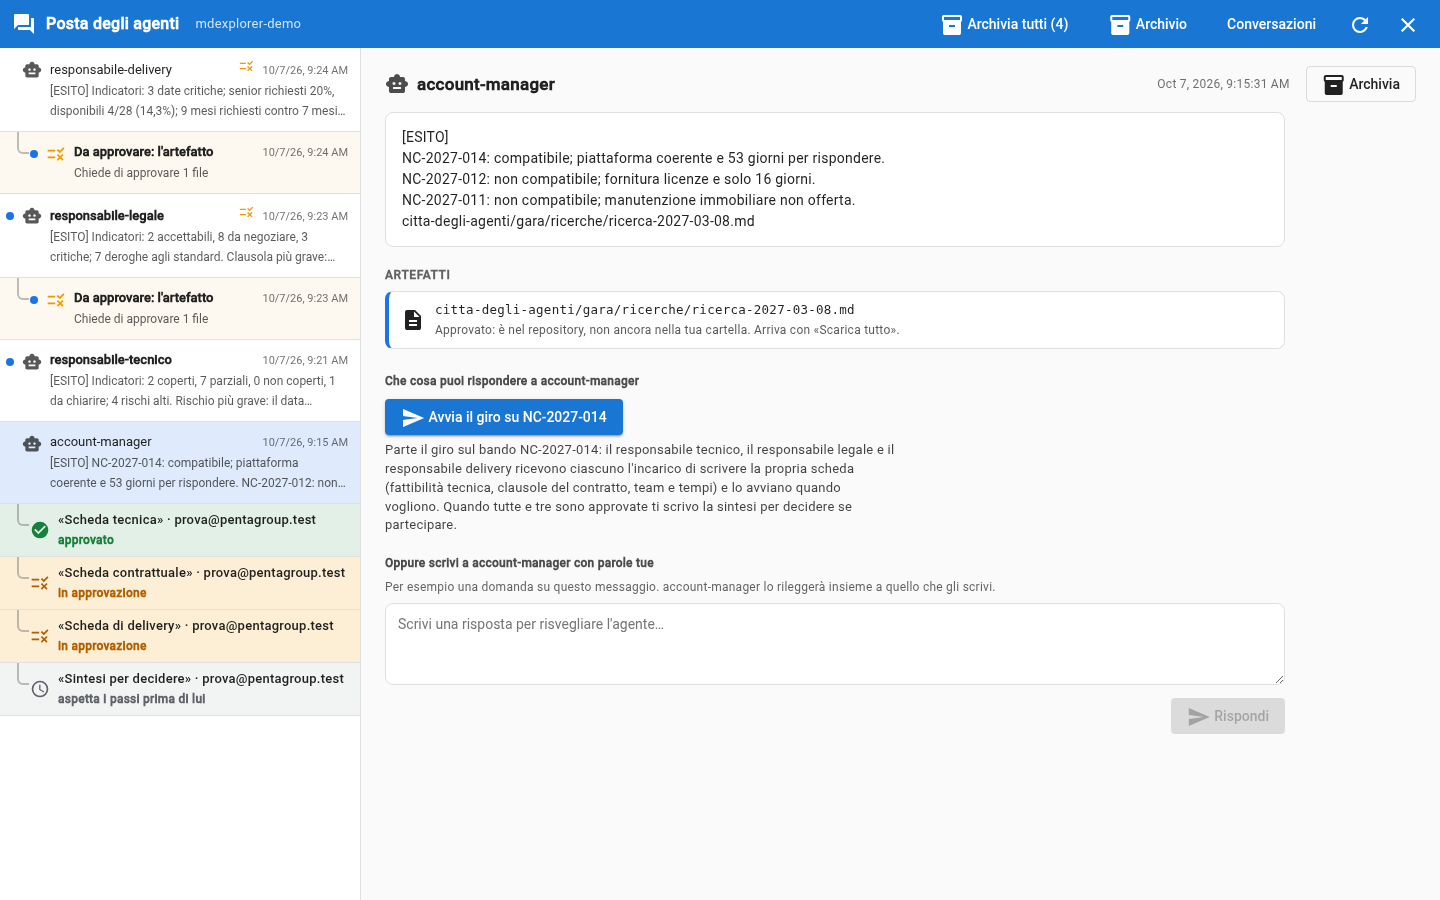
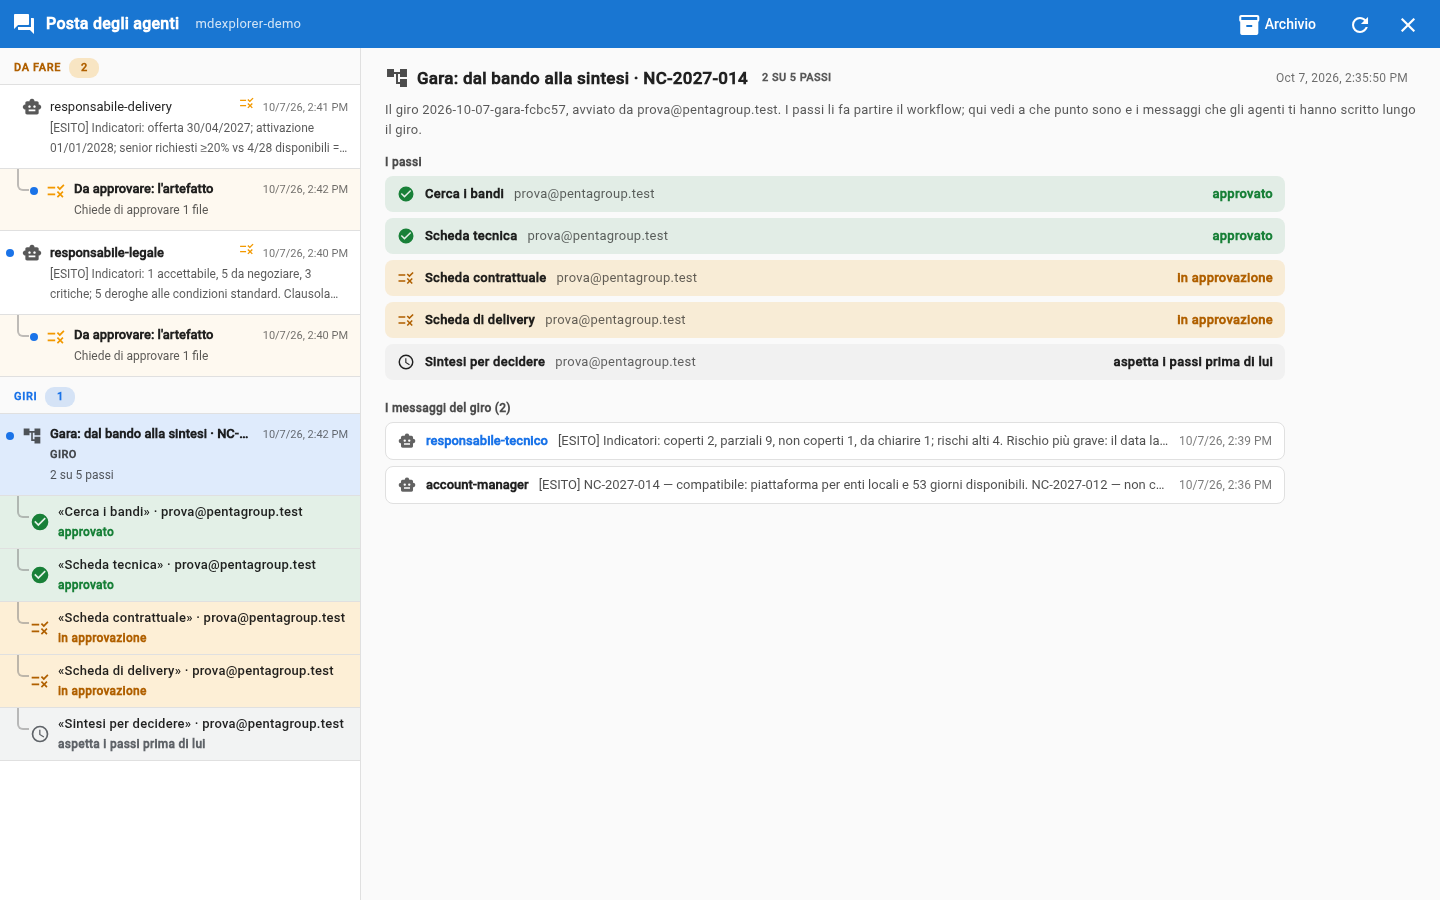
docs(posta): la posta in ordine nelle prove, nella guida e nelle schermate
La guida della posta racconta le tre sezioni (Da fare, Giri, Messaggi), il giro come
voce con i suoi passi e i suoi messaggi, «senza messaggio», l'archivio dei letti e dei
giri, e che ogni risveglio di un agente passa da una persona; via «Conversazioni». Le
prove 4-6, la guida passo per passo e la presentazione dicono «nella sezione Giri» al
posto delle righe sotto il messaggio; la prova 6 e la guida finiscono archiviando il
giro. Schermate rifatte su una gara intera nell'app di oggi.

diff --git a/citta-degli-agenti/guida/la-posta-degli-agenti.md b/citta-degli-agenti/guida/la-posta-degli-agenti.md
@@ -6,13 +6,26 @@ title: La posta degli agenti
 
 ## TL;DR
 
-Il fumetto nella barra degli strumenti apre la posta degli agenti: una pagina a tutto schermo, sopra il progetto. A sinistra c'è
-un elenco solo, con i messaggi degli agenti e i lavori da approvare; a destra il dettaglio di ciò che scegli. Un documento scritto
-da un agente si apre lì dentro, anche prima che tu lo approvi.
+Il fumetto nella barra degli strumenti apre la posta degli agenti: una pagina a tutto schermo, sopra il progetto. A sinistra
+l'elenco, diviso per **che cosa vuole da te** ogni voce; a destra il dettaglio di ciò che scegli. Il numero sul fumetto conta
+solo le decisioni che ti aspettano, non i messaggi da leggere.
 
-- **A sinistra**: chi ti ha scritto, quando, e la prima riga. Il pallino blu segna ciò che non hai ancora letto.
-- **A destra**: il messaggio intero, gli **artefatti** che cita con il pulsante **Apri**, e la casella per rispondere.
-- I lavori da approvare stanno nello stesso elenco, con l'etichetta **Da approvare** e i tre gesti di sempre.
+- **Da fare**: ciò che aspetta una tua decisione (da avviare, da approvare, pulsanti a cui non hai risposto).
+- **Giri**: un giro del workflow è una voce sola, con i suoi passi e i suoi messaggi; **Messaggi**: il resto, da leggere.
+- Un giro concluso si archivia in un gesto, con tutti i suoi messaggi; «Archivia i letti» toglie i messaggi già letti.
+
+## Le tre sezioni
+
+![La posta dopo «Avvia il giro»: in Da fare le tre schede da avviare, in Giri il giro con i suoi passi](../presentazione/assets/schermate/posta-giro-righe.png)
+
+| Sezione | Che cosa c'è | Perché lì |
+|---|---|---|
+| **Da fare** (ambra) | «da avviare», «da approvare» (anche un lavoro fermo dopo un rifiuto), le richieste dei colleghi, e i messaggi con pulsanti a cui non hai ancora risposto | aspettano una tua decisione: finché non decidi, il lavoro di qualcuno è fermo |
+| **Giri** (azzurro) | una voce per giro del workflow, per esempio «Gara · NC-2027-014 · 3 su 5 passi»; quelli in corso prima, con le righe dei passi sotto | il giro va avanti da solo: lo segui, non lo devi spingere |
+| **Messaggi** | ciò che gli agenti ti hanno scritto fuori da un giro | da leggere |
+
+Un messaggio scritto durante un giro sta **dentro il giro**, non in «Messaggi». Fa eccezione finché aspetta una tua
+decisione (per esempio il suo artefatto è da approvare): allora resta in «Da fare», e quando hai deciso entra nel giro.
 
 ## Le voci dell'elenco
 
@@ -21,7 +34,8 @@ da un agente si apre lì dentro, anche prima che tu lo approvi.
 | il robot | un messaggio di un agente | lo leggi, apri gli artefatti, rispondi con i suoi pulsanti |
 | la lista con la spunta, in arancione, rientrata sotto un messaggio | l'artefatto di quel lavoro, **da approvare** | apri i file, poi **Autorizza**, **Ci metto mano** o **Rifiuta** |
 | il fermaglio con l'orologio, «Da avviare» | un passo di un giro che è **tuo**: l'incarico che il workflow ha scritto per il tuo agente | **Apri per avviare**, **Non lo avvio** (con il motivo), o **Passa a un collega** del team |
-| una riga colorata, rientrata sotto un messaggio | un passo del giro che hai avviato con un pulsante di quel messaggio, che stai **aspettando** | niente: la riga cambia stato da sola |
+| lo schema ad albero, in «Giri» | un **giro** del workflow: titolo, bando, passi conclusi su totale | a destra i passi con chi ne risponde e lo stato, e i messaggi del giro (un clic li apre); a giro concluso, **Archivia il giro** |
+| una riga colorata, rientrata sotto un giro | un **passo** del giro, con chi ne risponde | niente: la riga cambia stato da sola; «senza messaggio» se l'agente ha consegnato senza scriverti |
 | il nodo, in viola | la **richiesta di un collega**: il suo agente chiede il lavoro del tuo | **Autorizza** o **Rifiuta**: il tuo agente parte solo se accetti |
 
 Aprire un messaggio lo segna come letto: sparisce il pallino, ma il messaggio resta nell'elenco finché ti serve.
@@ -64,27 +78,37 @@ Il rifiuto è l'eccezione: di solito un artefatto che non convince si corregge n
 
 ![Un lavoro rifiutato e fermo, con Fai ripartire](../presentazione/assets/schermate/posta-fermo.png)
 
-## I lavori che aspetti
+## Seguire un giro
 
-![Le righe di stato sotto il messaggio che ha avviato il giro](../presentazione/assets/schermate/posta-stati.png)
+![Un giro selezionato: i passi con chi ne risponde e lo stato, e i messaggi del giro](../presentazione/assets/schermate/posta-giro-approvata.png)
 
-Quando un tuo agente incarica altri agenti, sotto il suo messaggio compare una riga per ogni lavoro atteso. La riga cambia
-stato da sola, e quando cambia lampeggia per qualche secondo.
+Seleziona il giro nella sezione «Giri»: a destra trovi **i passi**, ciascuno con chi ne risponde e lo stato, e **i messaggi del
+giro**, cioè quelli che gli agenti ti hanno scritto lungo il giro. Un clic su un messaggio lo apre; in alto c'è il ritorno al giro.
+Le righe cambiano da sole, e quando una cambia lampeggia per qualche secondo.
 
 | Stato | Sfondo |
 |---|---|
+| aspetta che il responsabile lo avvii, in approvazione | ambra |
 | sta lavorando, in rilavorazione | azzurro |
-| in approvazione (aspetta la decisione di chi ne risponde) | ambra |
 | approvato, concluso | verde |
-| rifiutato e fermo, non riuscito | rosso |
+| rifiutato e fermo, non riuscito, non avviato | rosso |
+| aspetta i passi prima di lui | grigio |
 
-Oggi queste righe si vedono quando chi aspetta e chi approva lavorano sullo stesso computer, come nel demo.
+Se una riga dice **«senza messaggio»**, l'agente ha consegnato il lavoro ma non ti ha scritto il messaggio che la sua scheda
+chiede: guarda direttamente il file.
 
 ## Archiviare
 
-Quando un messaggio non ti serve più, **Archivia** (in alto a destra nel dettaglio) lo toglie dall'elenco. Non lo cancella:
-**Archivio**, nella barra in alto, mostra i messaggi archiviati, e da lì **Riporta in posta** lo rimette nell'elenco.
-**Archivia tutti** svuota la posta in un gesto; i lavori da approvare restano, perché quelli vanno decisi.
+- **Archivia**, nel dettaglio di un messaggio, lo toglie dall'elenco.
+- **Archivia i letti (N)**, nella barra in alto, toglie in un gesto i messaggi già letti della sezione «Messaggi». Quelli da
+  leggere, le decisioni e i giri restano.
+- **Archivia il giro**, nel dettaglio di un giro concluso, lo toglie dalla posta con tutti i suoi messaggi. Un giro ancora in
+  corso non si archivia: ha passi che aspettano qualcuno.
+
+Niente si cancella: **Archivio**, nella barra in alto, mostra messaggi e giri archiviati, e da lì **Riporta in posta** li
+rimette nell'elenco. Archiviare un giro riguarda solo la tua posta: il registro del giro, in git, non cambia.
+
+![L'archivio: il giro concluso con i suoi messaggi e «Riporta in posta»](../presentazione/assets/schermate/posta-archivio.png)
 
 ## Gli artefatti di un messaggio
 
@@ -111,9 +135,14 @@ Senza workflow, se l'agente dichiara a chi passa il lavoro, prima di autorizzare
 
 Per leggere un documento non serve più «Ci metto mano»: quello resta il gesto per **correggerlo** tu prima di approvare.
 
-## Le conversazioni
+## Quando un agente scrive a un altro
 
-In alto a destra, **Conversazioni** apre l'elenco dei thread fra agenti: chi ha parlato con chi, e come fermare uno scambio che
-non finisce.
+Ogni volta che un agente si sveglia, l'ha deciso una persona. Con il workflow i passaggi li fa MdExplorer, e ciascun passo lo
+avvia chi ne risponde. Senza workflow, se un agente scrive a un collega, il messaggio non lo sveglia: arriva nella posta del
+responsabile del collega come **«Da avviare»**, e parte quando lo avvia lui. Per questo non c'è una finestra per fermare due
+agenti che si scrivono senza fine: non possono farlo da soli.
+
+Se la memoria degli agenti è accesa, nel dettaglio di un messaggio c'è anche **Consolida**: scegli i fatti che l'agente ha
+imparato e che vuoi tenere nella sua scheda; gli altri decadono.
 
 [Indice della sezione](../README.md)

diff --git a/citta-degli-agenti/presentazione/guida-passo-passo.md b/citta-degli-agenti/presentazione/guida-passo-passo.md
@@ -466,7 +466,7 @@ pulsante, passa per l'avvio delle tre schede e arriva fino alla lettura di una s
 
 <div style="display:flex; gap:28px; align-items:center; justify-content:center">
 
-<img src="assets/schermate/guida-avvia-il-giro.png" alt="Il pulsante Avvia il giro sotto il messaggio, e sotto il messaggio le righe del giro" width="720" style="margin:0; border-radius:12px; box-shadow:0 10px 30px rgba(15,27,45,.28); border:1px solid #dfe3ea">
+<img src="assets/schermate/guida-avvia-il-giro.png" alt="Dopo il pulsante: in Da fare le tre schede da avviare, in Giri il giro con i suoi passi" width="720" style="margin:0; border-radius:12px; box-shadow:0 10px 30px rgba(15,27,45,.28); border:1px solid #dfe3ea">
 
 <div style="width:440px; text-align:left; font-size:.6em; line-height:1.4">
 
@@ -479,7 +479,7 @@ pulsante, passa per l'avvio delle tre schede e arriva fino alla lettura di una s
 </div>
 
 <div class="fragment fade-up" style="background:#fff; border-left:8px solid #1a73e8; border-radius:10px; padding:10px 16px; box-shadow:0 6px 18px rgba(15,27,45,.12); margin-bottom:12px">
-<b>3. Premi «Avvia il giro su NC-2027-014»</b><br>Compaiono subito tre voci «Da avviare», e sotto il messaggio le righe del giro.
+<b>3. Premi «Avvia il giro su NC-2027-014»</b><br>Compaiono subito tre voci «Da avviare» in <b>Da fare</b>, e il giro in <b>Giri</b>.
 </div>
 
 </div>
@@ -537,12 +537,12 @@ la scheda a chi risponde dello stesso agente.
 
 <div style="display:flex; gap:28px; align-items:center; justify-content:center">
 
-<img src="assets/schermate/guida-giro-lavorano.png" alt="Sotto il messaggio del pulsante, una riga per ogni passo del giro con il suo stato" width="720" style="margin:0; border-radius:12px; box-shadow:0 10px 30px rgba(15,27,45,.28); border:1px solid #dfe3ea">
+<img src="assets/schermate/guida-giro-lavorano.png" alt="Il giro nella sezione Giri: i passi con chi ne risponde e lo stato" width="720" style="margin:0; border-radius:12px; box-shadow:0 10px 30px rgba(15,27,45,.28); border:1px solid #dfe3ea">
 
 <div style="width:440px; text-align:left; font-size:.6em; line-height:1.4">
 
 <div class="fragment fade-up" style="background:#fff; border-left:8px solid #1a73e8; border-radius:10px; padding:10px 16px; box-shadow:0 6px 18px rgba(15,27,45,.12); margin-bottom:12px">
-<b>Una riga per passo</b><br>Sotto il messaggio da cui hai premuto, con il titolo del passo e chi ne risponde.
+<b>Il giro è una voce</b><br>Nella sezione «Giri», con una riga per passo: titolo e chi ne risponde. Cliccalo per il dettaglio.
 </div>
 
 <div class="fragment fade-up" style="background:#fff; border-left:8px solid #f29900; border-radius:10px; padding:10px 16px; box-shadow:0 6px 18px rgba(15,27,45,.12); margin-bottom:12px">
@@ -621,7 +621,7 @@ vista indipendenti, che poi la sintesi mette a confronto.
 </div>
 
 <div class="fragment fade-up" style="background:#fff; border-left:8px solid #5f6368; border-radius:10px; padding:10px 16px; box-shadow:0 6px 18px rgba(15,27,45,.12); margin-bottom:12px">
-<b>E le righe del giro</b><br>Sotto il messaggio dell'account manager: tre «in approvazione», e la sintesi che aspetta.
+<b>E il giro</b><br>In «Giri»: tre passi «in approvazione», e la sintesi che aspetta.
 </div>
 
 </div>
@@ -781,7 +781,7 @@ svegliato da questo clic finché le tre schede non sono tutte approvate.
 </div>
 
 <div class="fragment fade-up" style="background:#fff; border-left:8px solid #188038; border-radius:10px; padding:10px 16px; box-shadow:0 6px 18px rgba(15,27,45,.12); margin-bottom:12px">
-<b>3. La sua riga diventa verde</b><br>sotto il messaggio da cui hai avviato il giro. La sintesi aspetta ancora.
+<b>3. La sua riga diventa verde</b><br>nel giro, e il suo messaggio entra nel giro. La sintesi aspetta ancora.
 </div>
 
 </div>
@@ -953,20 +953,20 @@ dell'account manager. Da qui si può esportare, presentare o mandare ai colleghi
 
 <div style="display:flex; gap:28px; align-items:center; justify-content:center">
 
-<img src="assets/schermate/posta-fine.png" alt="La posta a fine giro: l'artefatto risulta approvato, in alto Archivia tutti e Archivio" width="720" style="margin:0; border-radius:12px; box-shadow:0 10px 30px rgba(15,27,45,.28); border:1px solid #dfe3ea">
+<img src="assets/schermate/guida-archivio.png" alt="L'archivio: il giro concluso con i suoi messaggi e Riporta in posta" width="720" style="margin:0; border-radius:12px; box-shadow:0 10px 30px rgba(15,27,45,.28); border:1px solid #dfe3ea">
 
 <div style="width:440px; text-align:left; font-size:.6em; line-height:1.4">
 
 <div class="fragment fade-up" style="background:#fff; border-left:8px solid #1a73e8; border-radius:10px; padding:10px 16px; box-shadow:0 6px 18px rgba(15,27,45,.12); margin-bottom:12px">
-<b>Archivia</b><br>Nel dettaglio di un messaggio, in alto a destra: il messaggio esce dall'elenco.
+<b>Archivia il giro</b><br>Nel dettaglio di un giro concluso: esce dalla posta con tutti i suoi messaggi.
 </div>
 
 <div class="fragment fade-up" style="background:#fff; border-left:8px solid #1a73e8; border-radius:10px; padding:10px 16px; box-shadow:0 6px 18px rgba(15,27,45,.12); margin-bottom:12px">
-<b>Archivia tutti</b><br>Nella barra in alto: svuota la posta. I lavori da approvare restano, perché vanno decisi.
+<b>Archivia i letti</b><br>Nella barra in alto: toglie i messaggi già letti fuori dai giri. Le decisioni restano.
 </div>
 
 <div class="fragment fade-up" style="background:#fff; border-left:8px solid #5f6368; border-radius:10px; padding:10px 16px; box-shadow:0 6px 18px rgba(15,27,45,.12); margin-bottom:12px">
-<b>Non cancella niente</b><br>«Archivio» mostra ciò che hai archiviato; «Riporta in posta» lo rimette nell'elenco.
+<b>Non cancella niente</b><br>«Archivio» mostra giri e messaggi archiviati; «Riporta in posta» li rimette nell'elenco.
 </div>
 
 </div>
@@ -974,8 +974,8 @@ dell'account manager. Da qui si può esportare, presentare o mandare ai colleghi
 </div>
 
 Note:
-Un messaggio letto resta in elenco finché serve: leggere toglie solo il pallino. Archiviare è il gesto con cui dici «questo
-è a posto». Dopo «Autorizza» un artefatto dice «approvato: arriva con Scarica tutto».
+A giro finito, la posta si mette in ordine con un gesto: il giro concluso si archivia con tutti i suoi messaggi. Il registro del
+giro, in git, non cambia: archiviare riguarda solo la propria posta.
 
 ---
 

diff --git a/citta-degli-agenti/prove/04-avvia-il-giro.md b/citta-degli-agenti/prove/04-avvia-il-giro.md
@@ -12,7 +12,7 @@ avviare», la avvia, e il suo agente legge lo stesso capitolato con i **suoi** o
 l'hai avviato, e leggi ogni scheda prima di approvarla.
 
 - Il pulsante non sveglia l'account manager: apre il giro, e le tre schede compaiono «da avviare».
-- Sotto il messaggio c'è una riga per ogni passo del giro, che cambia stato da sola.
+- Nella sezione «Giri» della posta il giro è una voce, con una riga per ogni passo che cambia stato da sola.
 - Le tre schede arrivano in circa 3-5 minuti; una scheda si legge con **Apri**, prima di approvarla.
 
 ## Premi «Avvia il giro»
@@ -47,8 +47,9 @@ In un team c'è anche **Passa a un collega**, per darla a chi risponde dello ste
 
 ## Segui il giro
 
-Clicca il messaggio dell'account manager da cui hai premuto il pulsante. Nell'elenco, **sotto** di lui, c'è una riga per
-ogni passo del giro, con il suo titolo e chi ne risponde:
+Nella posta, la sezione **Giri** ha una voce nuova: «Gara: dal bando alla sintesi · NC-2027-014», con quanti passi sono
+conclusi. Sotto, una riga per ogni passo, con il suo titolo e chi ne risponde; cliccando il giro, a destra vedi i passi e i
+messaggi del giro. Le tre schede «da avviare» stanno invece in **Da fare**: aspettano te.
 
 | Riga | Che cosa vuol dire | Sfondo |
 |---|---|---|
@@ -59,7 +60,7 @@ ogni passo del giro, con il suo titolo e chi ne risponde:
 | rifiutato, fermo | il responsabile l'ha rifiutata: non riparte da sola | rosso |
 | aspetta i passi prima di lui | la sintesi: parte quando le tre schede sono approvate | grigio |
 
-![Sotto il messaggio, una riga per ogni passo del giro con il suo stato](../presentazione/assets/schermate/posta-giro-lavorano.png)
+![Il giro nella sezione Giri: una riga per ogni passo con il suo stato, e a destra il dettaglio](../presentazione/assets/schermate/posta-giro-lavorano.png)
 
 Le righe cambiano da sole, e quando una cambia lampeggia per qualche secondo. È quello che vede **chi ha avviato il giro**:
 qui l'account manager. Nel demo le quattro persone sei tu; in azienda queste righe gli dicono a che punto è ciascun

diff --git a/citta-degli-agenti/presentazione/assets/README.md b/citta-degli-agenti/presentazione/assets/README.md
@@ -49,9 +49,12 @@ saranno diversi, ma il percorso è lo stesso.
 | `schermate/registro.png` | l'elenco degli agenti con i loro riassunti | (disponibile, non usata) |
 | `schermate/scoperta.png` | il messaggio dell'account manager con i bandi nuovi | «Passo 1» |
 | `schermate/risposta.png` | il pulsante «Avvia il giro» sotto il messaggio | «Passo 2» |
-| `schermate/posta-risposta.png` | il messaggio con il pulsante di risposta aperto | guida passo per passo, gesto 4; prova 4 |
+| `schermate/posta-risposta.png` | il messaggio con il pulsante di risposta aperto (posta di prima delle sezioni) | (non più usata) |
 | `schermate/posta-risposta-chiusa.png` | lo stesso pulsante chiuso, prima dell'approvazione | prova 3 |
-| `schermate/posta-stati.png` | le righe di stato dei lavori attesi | guida passo per passo; prova 4 |
+| `schermate/posta-stati.png` | le righe di stato sotto il messaggio (posta di prima delle sezioni) | (non più usata) |
+| `schermate/posta-giro-righe.png`, `posta-da-avviare.png`, `posta-giro-lavorano.png`, `posta-approva-scheda.png`, `posta-giro-approvata.png`, `posta-giro-sintesi.png`, `posta-giro-concluso.png`, `posta-archivio.png` | la posta in tre sezioni (Da fare, Giri, Messaggi) lungo la gara, dal pulsante all'archivio (07/10) | prove 4-6; guida della posta |
+| `schermate/guida-*.png` | ritagli delle stesse schermate | guida passo per passo, parti 2 e 3 |
+| `schermate/slide-*.png` | ritagli delle stesse schermate | presentazione «Un assistente per ogni persona» |
 | `schermate/posta-rifiuto.png` | il rifiuto con il motivo | (di scorta) |
 | `schermate/posta-fermo.png` | un lavoro rifiutato e fermo, con «Fai ripartire» | prova 4; guida della posta |
 | `schermate/copia-dentro.png` | la finestra che lavora nella copia di un agente | guida «Lavorare nella copia di un agente» |

diff --git a/citta-degli-agenti/prove/05-approva-e-passa-il-lavoro.md b/citta-degli-agenti/prove/05-approva-e-passa-il-lavoro.md
@@ -11,19 +11,19 @@ dopo lo dice il workflow, e MdExplorer lo fa partire. Dopo la terza approvazione
 sola, con i file delle tre schede.
 
 - Nella richiesta ci sono i tre gesti di sempre: **Autorizza**, **Ci metto mano**, **Rifiuta**.
-- Sotto il messaggio da cui hai avviato il giro, la riga di ogni scheda approvata diventa verde.
+- Nel giro, nella sezione «Giri», la riga di ogni scheda approvata diventa verde, e il suo messaggio entra nel giro.
 - Nessun agente si scrive con un altro: la sintesi la fa partire il giro.
 
 ## Approva la prima scheda
 
-1. Nella posta, sotto il messaggio di `responsabile-tecnico`, clicca la riga rientrata **Da approvare: l'artefatto**.
+1. Nella posta, in **Da fare**, sotto il messaggio di `responsabile-tecnico`, clicca la riga rientrata **Da approvare: l'artefatto**.
 
    ![La richiesta di approvazione della scheda tecnica](../presentazione/assets/schermate/posta-approva-scheda.png)
 
 2. Clicca **Autorizza**: la scheda entra nel ramo principale del repository.
 
-Ora clicca il messaggio dell'account manager da cui hai avviato il giro: la riga «Scheda tecnica» è diventata **verde**,
-approvato. Le altre due sono ancora ambra, in approvazione, e la sintesi aspetta.
+Ora clicca il giro nella sezione **Giri**: la riga «Scheda tecnica» è diventata **verde**, approvato, e il messaggio del
+responsabile tecnico è passato da «Da fare» dentro il giro. Le altre due schede sono ancora in approvazione, e la sintesi aspetta.
 
 ![Dopo la prima approvazione: una riga verde, due ambra, la sintesi che aspetta](../presentazione/assets/schermate/posta-giro-approvata.png)
 

diff --git a/citta-degli-agenti/prove/06-la-sintesi-e-la-tua-decisione.md b/citta-degli-agenti/prove/06-la-sintesi-e-la-tua-decisione.md
@@ -63,6 +63,14 @@ incrociato le competenze e scritto cosa serve decidere. Ma non hanno deciso, e n
 riga di una sintesi, non un impegno. Se vuoi partecipare lo stesso, la scelta è dell'account manager, cioè tua, e la
 sintesi ti ha dato la lista delle condizioni da ottenere: i punti da chiarire con il committente.
 
+## Metti in ordine
+
+Il giro è concluso: nella sezione «Giri» dice «concluso: 5 su 5 passi». Selezionalo e premi **Archivia il giro**: esce dalla
+posta con tutti i suoi messaggi. Lo ritrovi in **Archivio**, nella barra in alto, con «Riporta in posta». Il registro del giro
+non cambia: archiviare riguarda solo la tua posta.
+
+![L'archivio: il giro concluso con i suoi messaggi](../presentazione/assets/schermate/posta-archivio.png)
+
 ## Dopo la prova
 
 Il demo ha creato un ramo e dei file nel tuo clone: per leggere la sintesi nella tua cartella, scarica gli aggiornamenti
@@ -70,7 +78,7 @@ con il pull dalla barra git. Se vuoi ripartire da zero, riapri il demo con «Cre
 
 ## E se non succede niente
 
-- **Non arriva il messaggio con la sintesi.** Nel giro, sotto il messaggio da cui l'hai avviato, le tre righe delle schede
+- **Non arriva il messaggio con la sintesi.** Nel giro, nella sezione «Giri», le tre righe delle schede
   devono essere verdi (approvato): se una è ancora ambra, quella scheda non è approvata.
 - **La sintesi dice che non può calcolare i giorni.** Non ha trovato la «Data di lavoro» nel profilo: controlla che il
   [profilo di Pentagroup](../gara/profilo-pentagroup.md) sia intatto.

diff --git a/citta-degli-agenti/presentazione/citta-degli-agenti.md b/citta-degli-agenti/presentazione/citta-degli-agenti.md
@@ -300,12 +300,12 @@ registro in git: chi ha avviato, consegnato, approvato, e quando.
 
 <div style="display:flex; gap:30px; align-items:center; justify-content:center">
 
-<img src="assets/schermate/slide-giro-lavorano.png" alt="Sotto il messaggio del pulsante, una riga per ogni passo del giro con il suo stato" width="680" style="margin:0; border-radius:12px; box-shadow:0 10px 30px rgba(15,27,45,.28); border:1px solid #d6deea">
+<img src="assets/schermate/slide-giro-lavorano.png" alt="Il giro nella sezione Giri: i passi con chi ne risponde e lo stato" width="680" style="margin:0; border-radius:12px; box-shadow:0 10px 30px rgba(15,27,45,.28); border:1px solid #d6deea">
 
 <div style="width:440px; text-align:left; font-size:.62em; line-height:1.4">
 
 <div class="fragment fade-up" style="background:#fff; border-left:8px solid #1a73e8; border-radius:10px; padding:12px 16px; box-shadow:0 6px 18px rgba(15,27,45,.12); margin-bottom:12px">
-<b>Una riga per passo del giro</b><br>Sotto il messaggio da cui hai premuto, con chi ne risponde. Cambia stato da sola.
+<b>Il giro è una voce</b><br>Nella sezione «Giri» della posta, con una riga per passo e chi ne risponde. Cambia stato da sola.
 </div>
 
 <div class="fragment fade-up" style="background:#fff; border-left:8px solid #f29900; border-radius:10px; padding:12px 16px; box-shadow:0 6px 18px rgba(15,27,45,.12); margin-bottom:12px">
